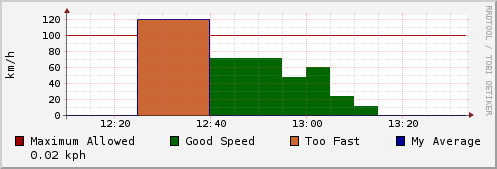
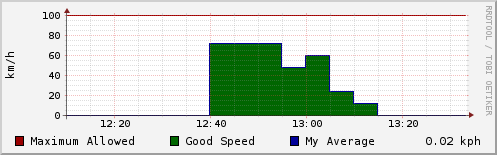
tempsave

diff --git a/powerdogGraph.py b/powerdogGraph.py
@@ -49,12 +49,13 @@ vdef1 = VDEF(vname='mymax', rpn='%s,MAXIMUM' % def1.vname)
 vdef2 = VDEF(vname='myavg', rpn='%s,AVERAGE' % def1.vname)
 line1 = LINE(value=100, color='#990000', legend='Maximum Allowed')
 area1 = AREA(defObj=cdef3, color='#006600', legend='Good Speed')
-area2 = AREA(defObj=cdef2, color='#CC6633', legend='Too Fast')
+#area2 = AREA(defObj=cdef2, color='#CC6633', legend='Too Fast')
 line2 = LINE(defObj=vdef2, color='#000099', legend='My Average', stack=True)
 gprint1 = GPRINT(vdef2, '%6.2lf kph')
 
 # Now that we've got everything set up, let's make a graph
 g = Graph(graphfile, start=920805000, end=920810000, vertical_label='km/h')
-g.data.extend([def1, cdef1, cdef2, cdef3, vdef1, vdef2, line1, area1, area2, line2, gprint1])
+#g.data.extend([def1, cdef1, cdef2, cdef3, vdef1, vdef2, line1, area1, area2, line2, gprint1])
+g.data.extend([def1, cdef1, cdef2, cdef3, vdef1, vdef2, line1, area1, line2, gprint1])
 g.write()
 
